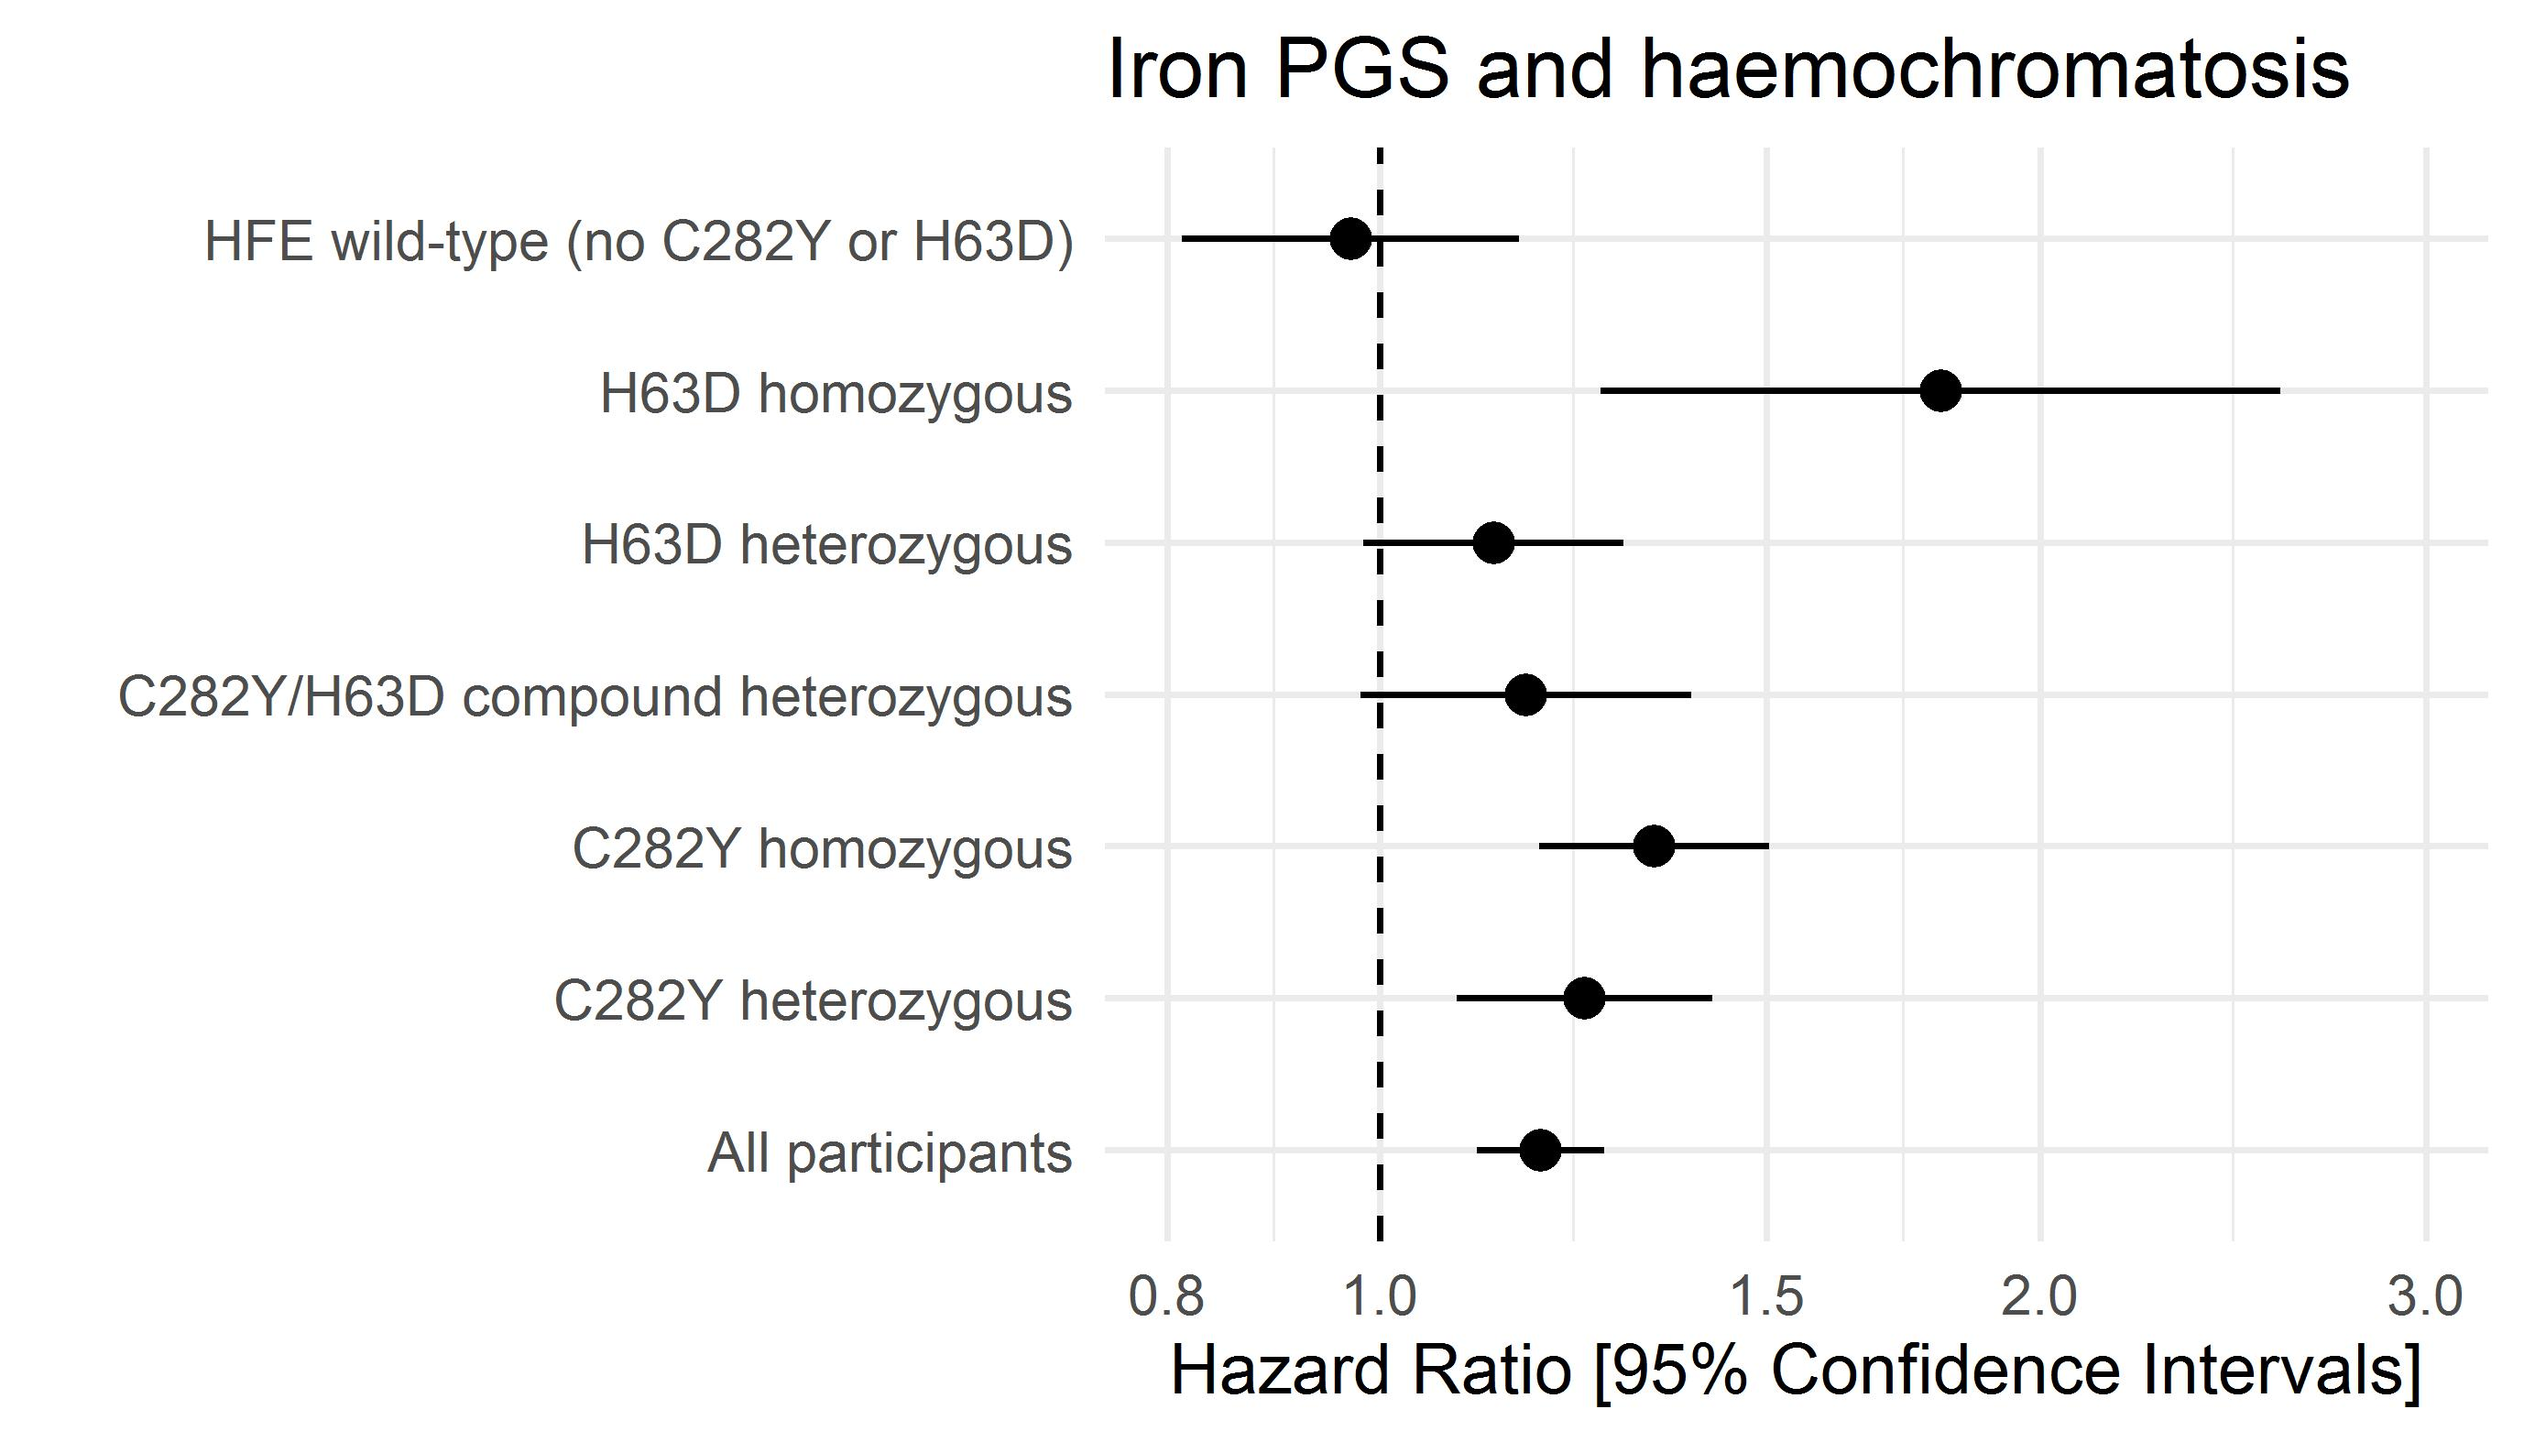
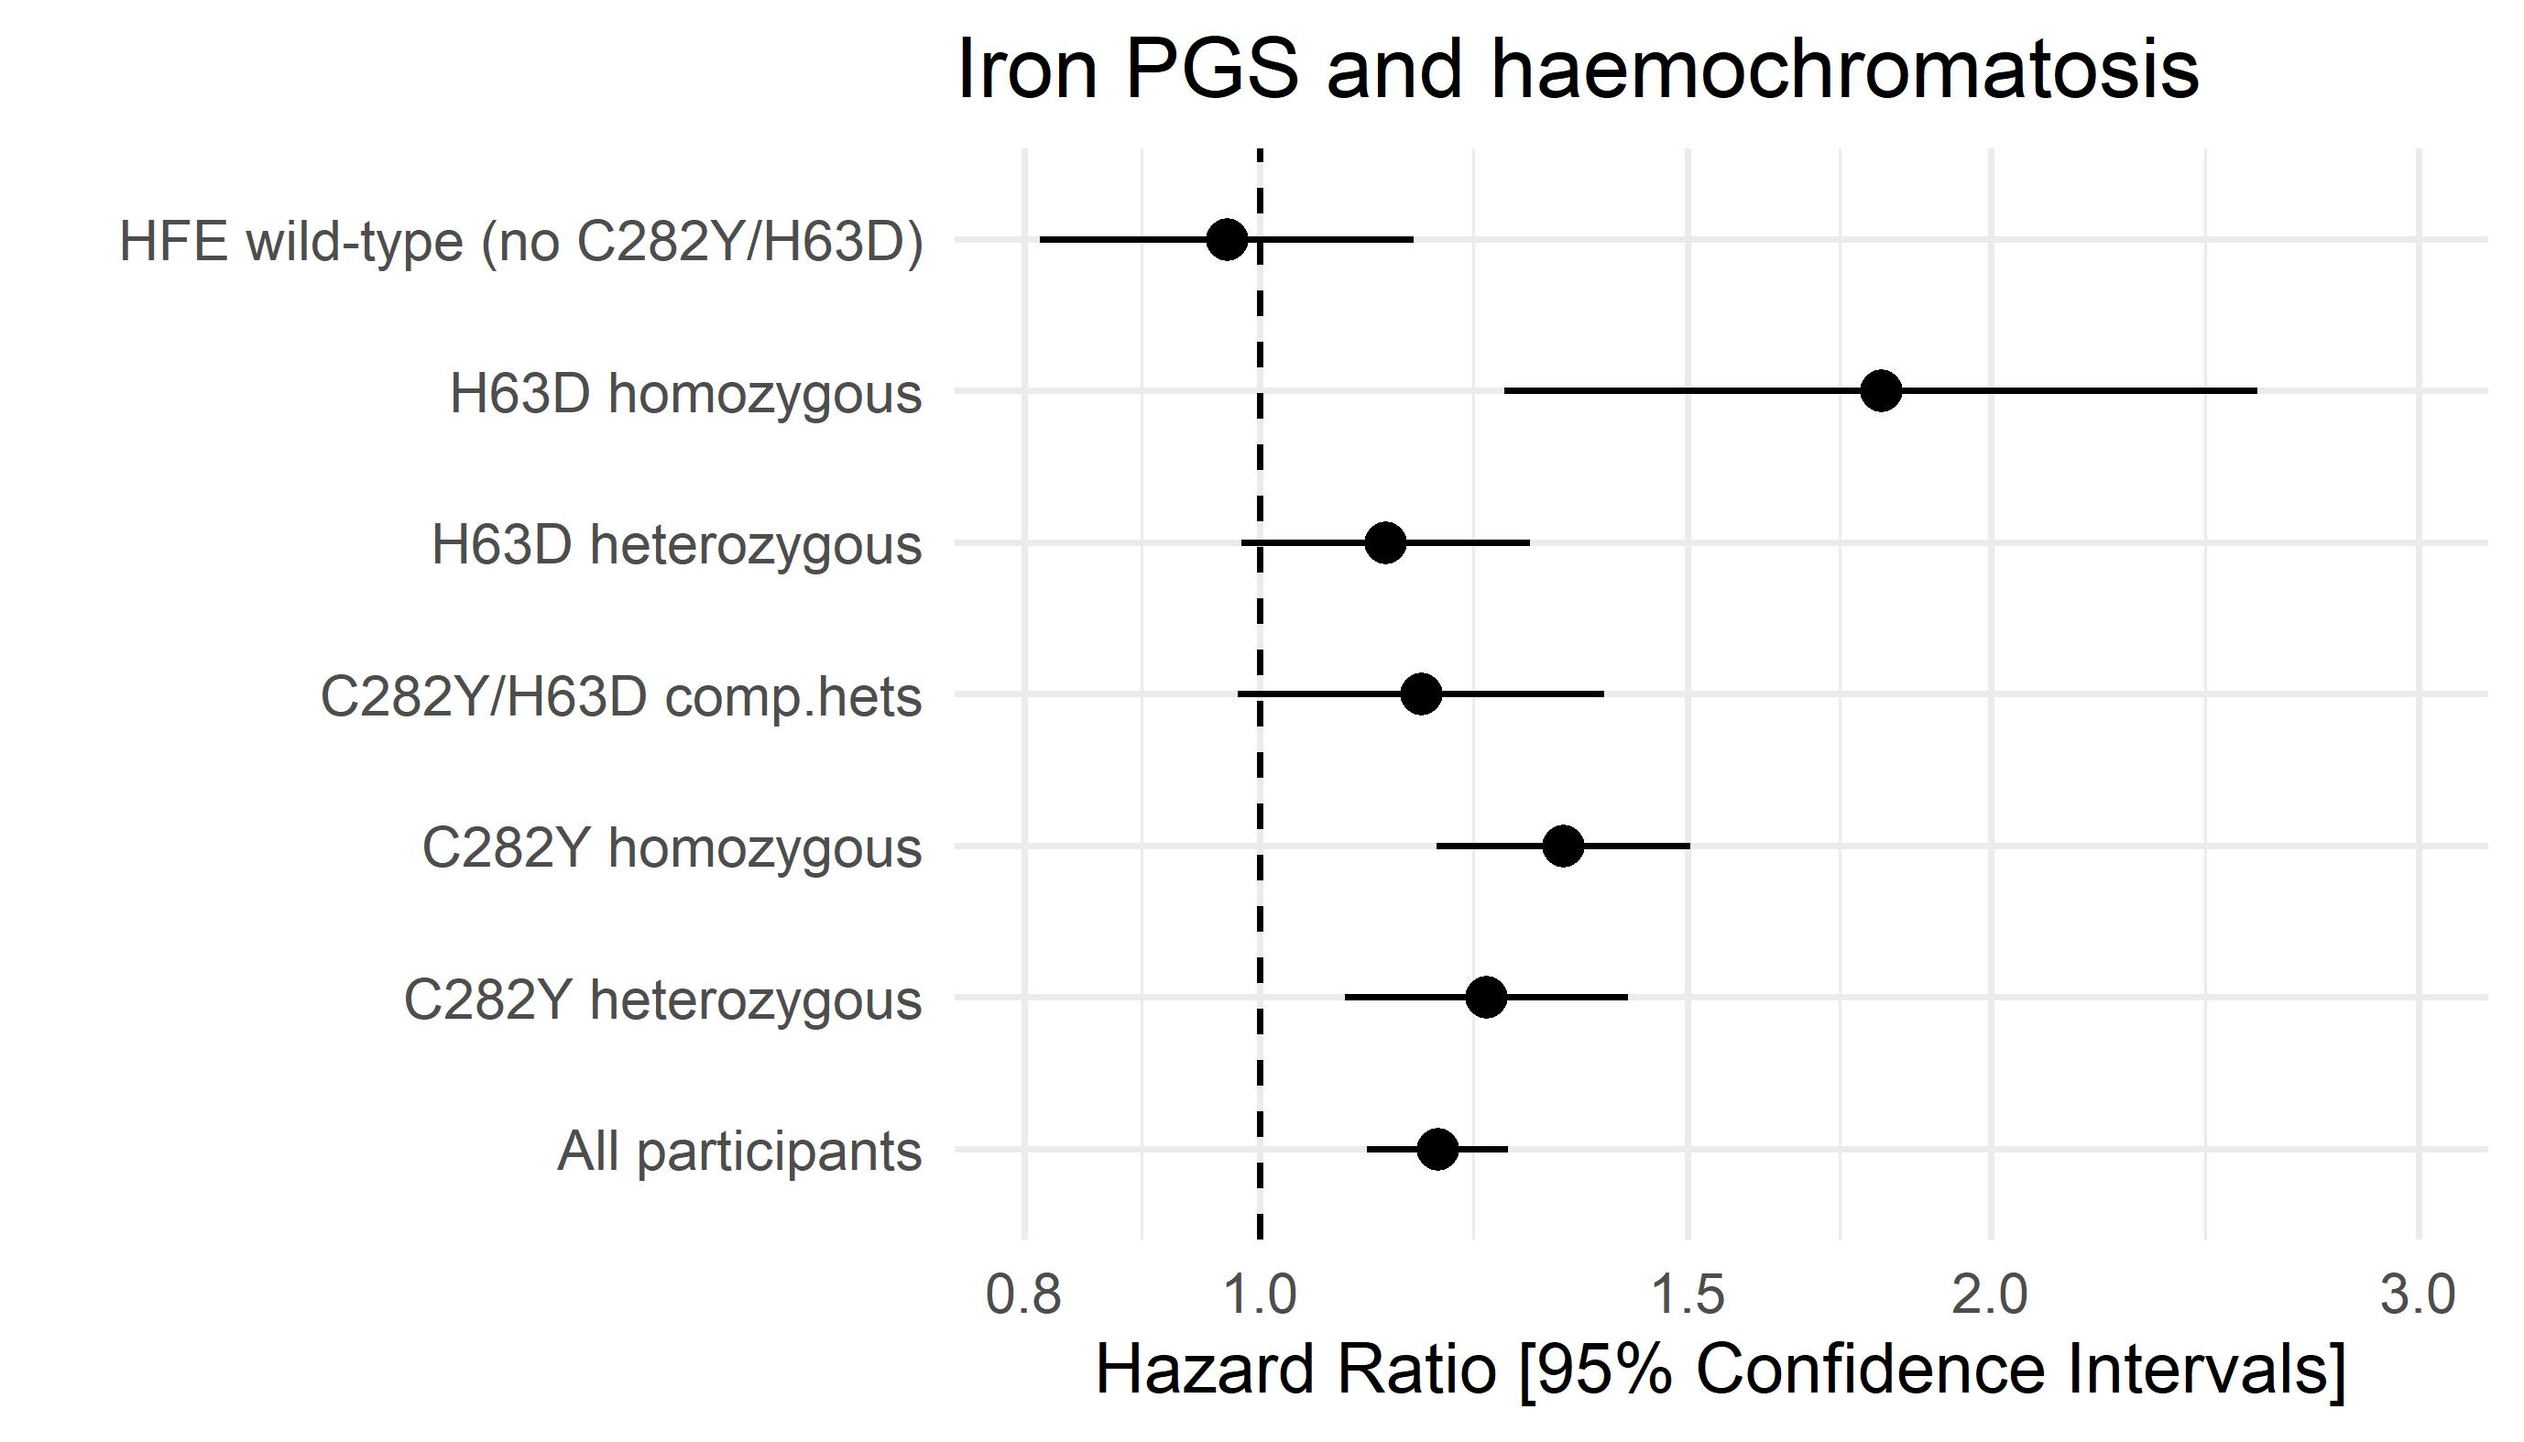
Add 2nd simple example
Include horizontal coloured lines

diff --git a/README.md b/README.md
@@ -11,4 +11,14 @@ Examples using data from our 2022 paper on iron polygenic score associations wit
 
 <img src="https://github.com/lukepilling/forest_plots/blob/main/simple_forest_ggplot2.jpg?raw=true" width="700" />
 
+## Simple example using `ggplot2` with grid line colours
+
+Same as above but with 3 differences:
+- Alternating coloured horizontal lines added (white and grey)
+- Ordered by effect size rather than custom (as appears in file)
+- Different "classic" theme to include axis lines and no reference lines 
+
+[Link to syntax](https://github.com/lukepilling/forest_plots/blob/main/simple_forest_with_grid_colours_ggplot2.R). Example output:
+
+<img src="https://github.com/lukepilling/forest_plots/blob/main/simple_forest_with_grid_colours_ggplot2.jpg?raw=true" width="700" />
 
